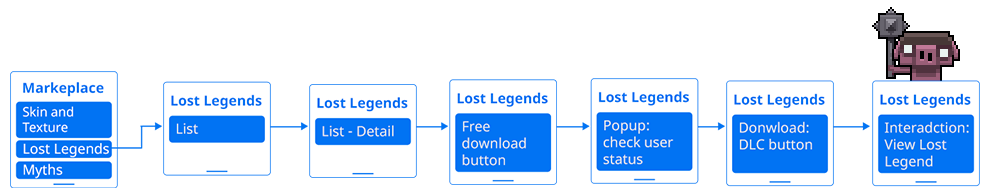
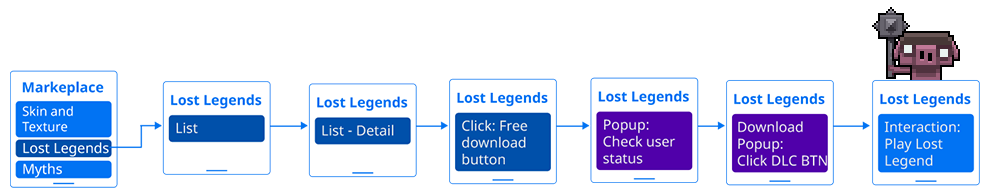
update image on ml and edit text on wiki

diff --git a/src/wiki.html b/src/wiki.html
@@ -116,10 +116,11 @@
                     moderators.
                   </li>
                   <li>
-                    The biggest challenge was accommodating two distinct user
-                groups: visitors (players) and content moderators (game
-                designers). This is because the way information is loaded and
-                accessed differs significantly for these two groups.
+                    The most important part is that the wiki page opens quickly and smoothly 
+                    within the game. This means it needs to avoid anything that could slow it 
+                    down, like too many large images, complex graphics, or unnecessary animations. 
+                    Prioritize text and essential information to keep the loading time minimal 
+                    for players
                     </li>
                 </ul>
               </div>
